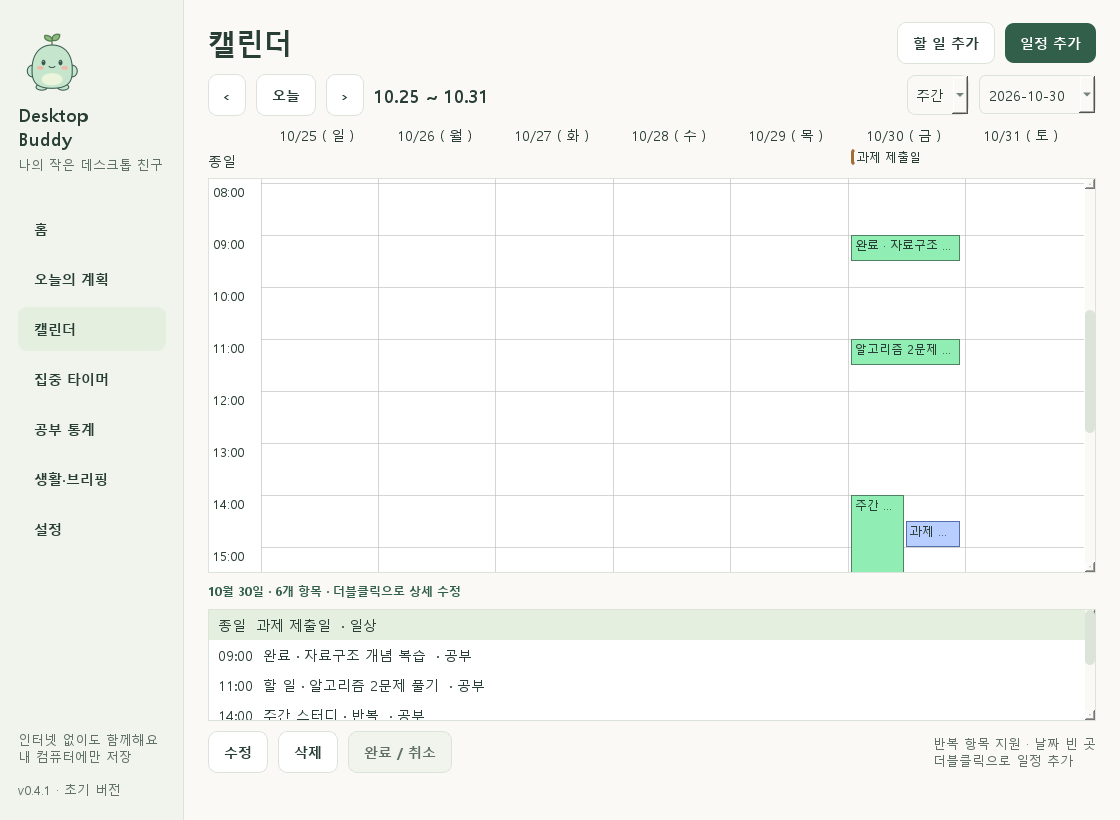
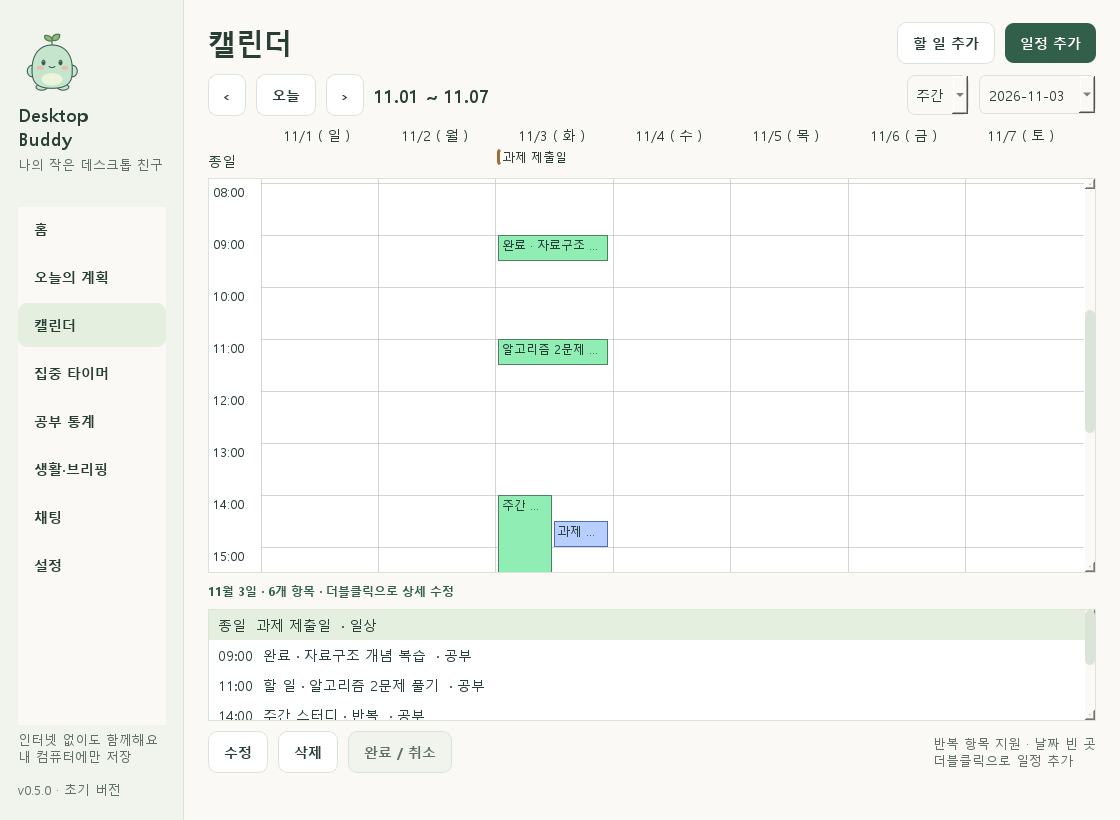
docs: document phase 5A usage and verified 0.5.0 checkpoint

diff --git a/docs/TEST_REPORT.md b/docs/TEST_REPORT.md
@@ -1,68 +1,45 @@
-# PHASE 0·1·2·3·4 검증 기록 — 0.4.1
+# PHASE 0~4·5A 검증 기록 — 0.5.0
 
-검증일: 2026-10-30, 한국 시간. Windows 11 build 26200, Python 3.12.14, PySide6 6.12.0, python-dateutil 2.9.0.post0, tzdata 2026.5, pytest 9.2.0, ruff 0.17.3, PyInstaller 6.22.3.
+검증일: 2026-11-03, 한국 시간. Windows 11 build 26200, Python 3.12.14, PySide6 6.12.0, pytest 9.2.0, ruff 0.17.3, PyInstaller 6.22.3.
 
-## 0.4.1 감사
+## 자동 회귀
 
-신규 오류 재현/보호 검사 10개를 추가했습니다. 기존 138개는 통과했지만 추가 검사에서 오류 6건을 재현해 수정했습니다. [감사 보고서](AUDIT_REPORT_0.4.1.md)에 사례·실제 프로세스 강제 종료 복구·실제 입력 승인 시간 초과와 수동 한계를 기록했습니다.
+**215개 통과**: 기존 148개 + 채팅/저장 회귀 63개 + 채팅 Qt UI 4개. 새 임시 DB와 Qt offscreen 플랫폼으로 실행했습니다. 실제 사용자 DB는 사용하지 않았습니다. `ruff check --no-cache .`, `ruff format --check --no-cache .` 통과.
 
-## 실행한 자동 회귀
+- 기존 설정·저장·계획/반복/알림·캐릭터·집중/통계·생활/브리핑·프로세스 종료 검사를 유지했습니다. 0.4.1의 기존 오류 6건은 [감사 보고서](AUDIT_REPORT_0.4.1.md)에 있습니다.
+- 한국어 24개 명령 형태와 모호한/잘못된 날짜·시각·범위·일괄 명령 16개를 검사했습니다. 모호한 문장을 실제 변경으로 연결하지 않습니다.
+- 할 일/일정 선택·동명 대상·추가/취소·완료/취소·날짜 이동·삭제·반복 범위·자정 일정·명시적 마감 보존.
+- 확인 중복 1회 처리, 변경/삭제된 대상·만료·새 명령/대화/보관 변경으로 오래된 카드 거부.
+- 진행 타이머 보호와 시작/일시정지/재개/확인 후 중지, 실제 공부 합계와 기존 캐릭터/타이머 UI 동기화.
+- 명령 처리 정보 저장 실패·성공 대화 저장 실패·지연 FK로 실제 commit 실패를 각각 주입했습니다. 계획·타이머 DB·런타임·세션/구간 ID·성공 대화·신호 모두 롤백했습니다.
+- 기존 실행 중 타이머의 일시정지/중지/초기화 실패 뒤 원상 복구, 같은 카드 재시도와 구간 시간 중복 적립 방지.
+- 중첩 실패를 내부에서 잡아도 부분 커밋 금지, 바깥 커밋 뒤 신호 발행.
+- 50개씩 대화 조회·재생성 서비스에서 기록 조회와 카드 복원 금지·보관 off·재활성화 시 소급 저장 없음·대화 삭제와 계획 분리.
+- 키 형태 canary를 DB에 쓰기 전에 거부, HTML/SQL 문자열을 일반 제목으로 보관하고 실행하지 않음. 네트워크 연결 진입점을 실패하게 한 상태에서도 로컬 명령 동작.
+- 스키마 1/2/3/4 이전과 backup DB 원래 버전·데이터 보존 검사. 새 스키마는 5입니다.
 
-**148개 통과.** 전용 임시 경로와 Qt offscreen 플랫폼을 사용했습니다. 실제 사용자 DB는 사용하지 않았습니다. `ruff check --no-cache .`와 `ruff format --check --no-cache .`도 통과했습니다.
+키 형태 탐지는 모든 비밀 문자열을 찾는 보장이 아닙니다. 가짜 시계·주입 오류·전원 이벤트 검사는 실제 OS 시계나 전원 상태를 변경하지 않습니다.
 
-- 기존 설정/DB 손상/상위 스키마 보호, 입력·좌표·에셋·프로세스 종료, 할 일/캘린더/분류/반복/알림 회귀 전체 유지.
-- 스키마 1 및 2에서 3으로 이전, 원본 backup API 백업과 기존 할 일·설정 유지, DDL 오류 롤백.
-- 가짜 monotonic/UTC 시계로 일시정지 제외, 중지한 집중 보존, 휴식 제외, 1회 완료/중복 방지, 기본 수동 다음 단계와 자동 사이클·긴 휴식·건너뛰기.
-- 5초 체크포인트, 정상 종료의 마지막 진행, 강제 종료를 가정한 체크포인트 복구, 미완료 일시정지 복원과 미적립 공백, 손상 체크포인트의 고아 세션 중단.
-- 절전 길이의 공백, 벽시계 앞/뒤 변경, 저장 실패 시 일시정지와 재시도, Windows 전원 이벤트 핸들러의 수동 재개 원칙.
-- 자정 날짜 분리, DST 23시간 하루 배분, 일시정지 구간 분리, 분류/할 일 삭제 뒤 기록 스냅샷 보존.
-- 종료 기록 분류 변경·삭제와 CASCADE 구간/누적 갱신, 진행 중 기록 삭제 금지, 100개를 넘는 완료 세션의 정확한 평균.
-- UI에서 집중 시작·일시정지·재개·완료와 기록 삭제, 7/30일·8주·6개월 데이터/0일 포함 합계 일치.
-- 작은 타이머 표시 모드·펫 숨김·입력 통과 플래그, 집중 중 알림 억제 선택과 완료 알림의 수동 중지/조용한 시간 준수, 모루 반응 뒤 focus/break 복귀와 움직임 줄이기.
+## Windows Qt 자체 실행
 
-수면 표시를 글꼴 없이 선으로 그리도록 다듬은 뒤 에셋/생활 UI 검사 16개도 다시 통과했습니다.
+`tools/native_smoke.py`를 `QT_QPA_PLATFORM=windows`로 실행했습니다. 전용 `.qa/native-smoke-phase5a/<UUID>` DB를 사용하고 `.qa/native-smoke-phase5a.json`에 결과를 저장했습니다.
 
-가짜 시계/전원 이벤트 테스트는 실제 OS 시계 변경이나 컴퓨터 절전을 수행하지 않습니다. Qt offscreen은 실제 OS 입력·합성·트레이·토스트 확인을 뜻하지 않습니다.
+- 기존 펫 최초 표시·트레이 Qt 표시 상태·관리창 닫기·크기/숨김 복원·계획 입력/완료·월/주/일·집중/통계·브리핑·집중 크기 복원 확인.
+- 채팅 입력/보내기 버튼으로 미리보기 전 비저장, 확인 후 실제 할 일 저장, 채팅의 타이머 시작/일시정지/재개 확인.
+- 진행 중 전체 종료 후 paused 체크포인트, 설정 보존, 실행 잠금 해제, 집중/생활/브리핑/알림 타이머 정지 확인.
 
-## PHASE 4 추가 자동 검사
+Qt API로 앱을 조작한 검사입니다. 실제 OS 마우스/키보드·트레이·알림 클릭을 대신하지 않습니다.
 
-- 기존 스키마 3의 집중 기록/제목을 보존하고 4로 이전, 이전 전 backup DB의 원래 버전 확인.
-- 첫 사용자/짧거나 중지한 기록/기록 off 예외, 완료 15분 기준·2일 걱정/3일 시무룩함·기준 변경·유효 완료/전체 기록 삭제 후 재계산.
-- 주말 제외·자연 자정·겹친 휴식 기간 중복 제외·휴식 삭제·모든 요일 휴식 설정, 날짜 범위 역전 거부.
-- 수면·집중 상태 우선순위, 직접 클릭이 완료 반응보다 우선하고 반응 뒤 집중/공백 상태 복귀.
-- monotonic 대비 시계 앞/뒤 불연속과 재실행 역행·미래 유효 기록 감지, 날짜 확인 후 해제. 실제 OS 시계는 바꾸지 않음.
-- 자동 안부의 횟수 제한과 재실행 처리 이력, 집중/수면/수동 방해 금지·필수 타이머 예외·명시적 클릭 반응.
-- Windows 상태 2/3/4 및 오류를 주입한 감지 테스트. 실제 게임·발표·브라우저 전체 화면은 아직 수동 확인 대상.
-- 새로운 미기록 집중의 임시 체크포인트 복구/종료 정리와 통계 제외, 진행 중 기록 설정 보존.
-- 브리핑 실제 DB의 날짜·남은 할 일·다가오는 일정·마감·공부 분류·이전 미완료, 예약 전 대기·집중 중 연기·시작 날짜 만료·당일 1회/재시작/과거 날짜 비누적·직접 보기 처리.
-- 새 페이지의 설정 저장·휴식 추가/삭제·날짜 확인, 작은 캐릭터/타이머만/숨김·직접 찾기·수동 숨김 보존, 브리핑 카드의 계획 이동과 집중 시작 시 자동 카드 닫기.
+## 앱 위젯 렌더링
 
-## Windows 네이티브 Qt 자체 검증
+`tools/render_preview.py`의 전용 `.qa/preview-data-phase5a/<UUID>` DB로 화면을 만들었습니다. 홈/계획/캘린더/집중/통계/생활/설정과 채팅 밝은/어두운 화면을 확인했습니다. 720×560에서 메뉴가 스크롤되고, 확인 내용·입력·버튼이 보입니다. 대화는 KST로 표시하며 HTML을 해석하지 않습니다. 실제 사용자 데이터나 다른 앱을 캡처하지 않았습니다.
 
-`tools/native_smoke.py`를 Qt `windows` 플랫폼에서 실행했습니다. 매번 `.qa/native-smoke-phase4/<고유 ID>`의 별도 DB를 만들고 `.qa/native-smoke-phase4.json`에 결과를 남깁니다.
+## EXE 빌드
 
-- 처음 펫만 표시, 트레이의 Qt 표시 상태 true, 관리창 닫기 후 펫 유지.
-- 크기 즉시 적용, 펫 숨김/복구와 애니메이션 중단/재개.
-- 계획 입력 추가·체크 완료, 월간 렌더와 주간 7일/일간 1일 전환.
-- 집중 페이지 버튼으로 시작·일시정지·재개·중지, focus 기본 상태와 작은 타이머의 Qt 표시, 통계 기록 표시.
-- 생활 페이지 표시, 수동 브리핑 카드 열기/계획 이동, 집중 중 128px와 저장된 208px 분리 및 중지 시 208px 복원.
-- 집중 중 전체 종료 후 미완료 체크포인트가 paused로 저장됨, 집중/생활/브리핑/알림 QTimer 정지, 설정 보존과 실행 잠금 해제.
+PyInstaller 0.5.0 one-folder 빌드를 완료했습니다. 버전 리소스·기본 모루 64 PNG·아이콘·Qt Windows 플러그인·tzdata Asia/Seoul을 포함하며 `assets/characters` 사용자 원본, DB·로그·QA·키 파일은 제외했습니다.
 
-이는 Qt API로 앱을 조작한 자체 검사입니다. 실제 마우스와 OS 트레이/알림 클릭을 대신하지 않습니다.
+EXE의 실제 실행은 이번에도 미검증입니다. 이전 Windows 앱 제어 정책 거부를 우회하지 않았으며 깨끗한 PC에서의 확인은 별도입니다. 검증된 실행 경로는 `run_windows.bat`의 Python/PySide6 소스 실행입니다.
 
-## 앱 화면 시각 확인
+## 수동 확인 대기
 
-`tools/render_preview.py`가 별도 `.qa/preview-data-phase3/<고유 ID>`에서 QA 자료를 만들고 앱 위젯만 렌더링합니다. 한글·밝은/어두운 화면, 홈/계획/월·주·일 캘린더/설정, 큰 타이머와 비활성 버튼, 타이머 설정, 통계 막대/비교/공부 달력/기록 표·생활/휴식/수면/브리핑 설정과 실제 브리핑 카드를 확인했습니다. 실제 사용자 데이터와 다른 앱/바탕화면을 캡처하지 않았습니다.
-
-## 초기 EXE 빌드
-
-0.4.1 PyInstaller one-folder 빌드와 포함 파일 확인을 수행했습니다. 기본 모루 PNG 64개·아이콘·Qt Windows 플러그인·tzdata Asia/Seoul을 포함합니다. `assets/characters` 원본 자료·사용자 DB·로그·QA 자료는 번들에서 제외했습니다.
-
-이전 EXE 시작은 이 PC의 Windows 앱 제어 정책으로 거부되었습니다. 정책을 변경하거나 우회하지 않았습니다. 이번 EXE의 실제 실행·깨끗한 PC 검증은 수행하지 않았습니다. 확인된 실행 경로는 `run_windows.bat`의 Python/PySide6 소스 실행입니다.
-
-## 미검증 및 수동 확인
-
-실제 마우스/트레이, OS 완료 토스트, 실기기 절전·복귀, OS 시계 변경, 다중 모니터·DPI, Windows 10, 깨끗한 PC의 EXE, 장시간/대규모 자료 성능은 남았습니다. [MANUAL_TESTS.md](MANUAL_TESTS.md)에 항목을 유지했습니다. PHASE 5 이후와 제공 3종 캐릭터 선택/연결은 아직 구현하지 않았습니다.
-
-
-생활 기능의 기본값은 주말 제외·15분 완료·3일 공백·3일 안부 간격이며 수면/자동 브리핑/전체 화면 숨김은 off입니다. 시계 보호는 관찰 가능한 불연속에 한정되며 앱 미실행 중 전진과 정상 경과는 완전히 구분할 수 없습니다. Windows 감지는 공식 알림 적합성 상태를 사용하므로 모든 전체 화면 앱의 탐지를 뜻하지 않습니다.
+한글 IME/접근성·실제 키보드/마우스·트레이·OS 토스트·절전/복귀·시계 변경·여러 모니터/DPI·Windows 10·깨끗한 PC의 EXE·장시간/대규모 데이터 성능은 [체크리스트](MANUAL_TESTS.md)에 남았습니다. 캐릭터 3종 선택(5B)·선택형 AI(6)는 미구현이며 PHASE 5 전체 완료가 아닙니다.

diff --git a/README.md b/README.md
@@ -1,10 +1,10 @@
-# Desktop Buddy 0.4.1
+# Desktop Buddy 0.5.0
 
 소스 저장소: [ksmin4347/Chiikawa_buddy](https://github.com/ksmin4347/Chiikawa_buddy)
 
-작은 캐릭터와 하루 계획을 함께 관리하는 한국어 Windows 데스크톱 앱입니다. **PHASE 0·1·2·3·4**를 구현했습니다. 인터넷·회원가입·API 키 없이 캐릭터, 할 일, 캘린더, 집중 타이머와 공부 통계를 사용할 수 있습니다.
+작은 캐릭터와 하루 계획을 함께 관리하는 한국어 Windows 데스크톱 앱입니다. **PHASE 0~4와 PHASE 5A 오프라인 명령 채팅**을 구현했습니다. 인터넷·회원가입·API 키 없이 캐릭터, 할 일, 캘린더, 집중 타이머와 공부 통계를 사용할 수 있습니다.
 
-기본 캐릭터 모루는 직접 그린 오리지널 마스코트입니다. 먼작귀 공식 이미지는 포함하지 않습니다. 채팅과 제공 캐릭터 선택은 아직 구현하지 않았습니다. 개발자가 제공할 치이카와·하치와레·우사기 자료는 [캐릭터 준비 폴더](assets/characters/README.md)에 넣습니다.
+기본 캐릭터 모루는 직접 그린 오리지널 마스코트입니다. 먼작귀 공식 이미지는 포함하지 않습니다. 채팅은 오프라인 명령 모드입니다. 제공 3종 캐릭터 선택과 AI 대화는 후속 단계입니다. 개발자가 제공할 치이카와·하치와레·우사기 자료는 [캐릭터 준비 폴더](assets/characters/README.md)에 넣습니다.
 
 ![생활·브리핑](docs/images/companion.png)
 
@@ -12,7 +12,7 @@
 
 ## 5·6단계 설계와 사진 준비
 
-[채팅·캐릭터·AI 설계서](docs/PHASE_5_6_DESIGN.md)와 [사진 넣는 방법](assets/characters/README.md)을 정리했습니다. 이는 후속 설계이며 현재 앱에 채팅·3종 선택·AI 연결을 추가한 것은 아닙니다. 사진은 개발자가 준비하고, 앱 사용자는 제공 목록에서 고르는 방식입니다.
+[채팅·캐릭터·AI 설계서](docs/PHASE_5_6_DESIGN.md)와 [사진 넣는 방법](assets/characters/README.md)을 정리했습니다. 0.5.0에는 5A 오프라인 채팅을 연결했습니다. 5B 3종 캐릭터 선택과 6단계 AI 연결은 설계 상태입니다. 사진은 개발자가 준비하고, 앱 사용자는 제공 목록에서 고르는 방식입니다.
 
 ## 실행
 
@@ -20,7 +20,7 @@
 
 처음 소스를 받았거나 0.1.0 개발 환경에서 업데이트했다면 Python 3.12 이상을 설치한 뒤 `setup_windows.bat` → `run_windows.bat` 순서로 실행합니다. 준비에는 인터넷이 필요하며, 앱 실행에는 인터넷이 필요하지 않습니다.
 
-`build_windows.bat`은 테스트 후 `dist\DesktopBuddy` 폴더를 만듭니다. Python 없는 PC용 one-folder EXE 후보이며 폴더 전체가 필요합니다. **이 PC에서 이전 EXE는 Windows 앱 제어 정책으로 차단되었습니다. 0.4.1도 빌드와 포함 파일을 확인했지만 EXE 실행·깨끗한 PC 검증은 완료하지 않았습니다.** 현재 확인된 실행 경로는 소스 실행입니다.
+`build_windows.bat`은 테스트 후 `dist\DesktopBuddy` 폴더를 만듭니다. Python 없는 PC용 one-folder EXE 후보이며 폴더 전체가 필요합니다. **이 PC에서 이전 EXE는 Windows 앱 제어 정책으로 차단되었습니다. 0.5.0도 빌드와 포함 파일을 확인했지만 EXE 실행·깨끗한 PC 검증은 완료하지 않았습니다.** 현재 확인된 실행 경로는 소스 실행입니다.
 
 ## 지금 사용할 수 있는 기능
 
@@ -37,6 +37,7 @@
 | 공부 통계 | 일/주/월/누적, 7·30일/8주/6개월 그래프, 분류·할 일별 비교, 공부 달력, 기록 분류 수정·삭제 |
 | 작은 타이머 | 항상/집중 중/마우스 올림/숨김, 캐릭터 이동 연동, 마우스 입력 통과 |
 | 생활·브리핑 | 공부 공백 표정·휴식일/기간, 수면, 집중 중 표시, 선택형 자동 숨김, 하루 브리핑 |
+| 채팅 | 한국어 지원 명령, 일정·공부 조회, 타이머 제어, 변경 확인, 대화 보관·삭제 |
 | 설정 | 이름·크기·속도·정지 이미지·말풍선·항상 위·시작 표시·테마·주 시작 요일 |
 
 날짜가 지난 미완료 항목은 자동 완료되거나 사라지지 않습니다. '이전 미완료'에서 확인하고 수정 창의 예정 날짜를 바꿀 수 있습니다. 반복 항목의 수정·삭제 범위는 원래 발생 날짜를 기준으로 합니다. 개별로 옮긴 날짜도 원래 항목과 연결됩니다.
@@ -80,11 +81,19 @@
 
 ![오늘 브리핑 카드](docs/images/briefing.png)
 
+## 오프라인 채팅 — 0.5.0
+
+관리창 왼쪽 **채팅**을 엽니다. `오늘 할 일 보여줘`, `오늘 얼마나 공부했어?`, `25분 집중 시작`을 입력하거나 예시를 고를 수 있습니다. `할 일 추가: 자료구조 복습`은 내용을 먼저 보여주며 **확인하고 적용**을 눌러야 저장합니다. 모호한 대상·반복 범위는 선택하고, 변경된 대상·5분 지난 카드·같은 요청의 중복 확인은 실행하지 않습니다.
+
+대화 보관은 기본 켜짐입니다. 끄면 새 메시지는 실행 중 메모리에만 남으며, 이전 대화는 별도로 삭제할 수 있습니다. 대화 삭제는 계획·공부 기록에 영향을 주지 않습니다. 키 형태 본문은 저장 전에 거부합니다. 자유로운 AI 대화·임의 프로그램 실행은 지원하지 않습니다. [전체 지원 예시와 제한](docs/CHAT_GUIDE.md)을 확인하세요.
+
+![오프라인 채팅과 저장 전 확인](docs/images/chat.png)
+
 ## 데이터 안전성
 
-기본 저장 위치는 `%LOCALAPPDATA%\DesktopBuddy\`입니다. `buddy.db`에 설정·위치·계획·일정·반복 예외·알림 처리 이력·집중 세션·실제 집중 구간·휴식 기간·안내 처리 이력을 저장합니다. 설치 폴더를 교체해도 유지됩니다. 오류 로그는 `logs\app.log`에 크기를 제한해 보관합니다.
+기본 저장 위치는 `%LOCALAPPDATA%\DesktopBuddy\`입니다. `buddy.db`에 설정·위치·계획·일정·반복 예외·알림 처리 이력·집중 세션·실제 집중 구간·휴식 기간·안내 처리 이력·선택형 대화 기록·본문 없는 명령 처리 식별 정보을 저장합니다. 설치 폴더를 교체해도 유지됩니다. 오류 로그는 `logs\app.log`에 크기를 제한해 보관합니다.
 
-0.1.0~0.3.0 DB를 처음 열 때 **원본 백업을 만든 뒤 스키마 4로 이전**합니다. 실패 시 트랜잭션을 되돌리고 원본 DB를 초기화하지 않습니다. 백업은 같은 폴더의 `buddy.<시각>.backup.db`입니다. 이전 버전 프로그램은 새 스키마 DB를 열지 못하므로, 복구가 필요하면 원본·백업을 보관한 채 문의해 주세요. 백업/복원 UI는 후속 단계입니다.
+0.1.0~0.4.1 DB를 처음 열 때 **원본 백업을 만든 뒤 스키마 5로 이전**합니다. 실패 시 트랜잭션을 되돌리고 원본 DB를 초기화하지 않습니다. 백업은 같은 폴더의 `buddy.<시각>.backup.db`입니다. 이전 버전 프로그램은 새 스키마 DB를 열지 못하므로, 복구가 필요하면 원본·백업을 보관한 채 문의해 주세요. 백업/복원 UI는 후속 단계입니다.
 
 ## 0.4.1 재점검
 
@@ -100,7 +109,7 @@
 .\.venv\Scripts\python.exe tools\native_smoke.py
 ```
 
-자동 테스트 **148개 통과**, 코드 품질 검사 통과. Windows Qt 자체 검증으로 계획/캘린더, 집중/통계와 생활 화면·브리핑 카드·집중 중 크기 복원·종료 정리를 확인했습니다. 실제 마우스·트레이·OS 토스트·실기기 절전·여러 모니터·전체 배율·Windows 10·EXE 실행 검증은 남아 있습니다.
+자동 테스트 **215개 통과**, 코드 품질 검사 통과. Windows Qt 자체 검증으로 계획/캘린더, 집중/통계와 생활 화면·브리핑 카드·집중 중 크기 복원·종료 정리를 확인했습니다. 실제 마우스·트레이·OS 토스트·실기기 절전·여러 모니터·전체 배율·Windows 10·EXE 실행 검증은 남아 있습니다.
 
 기존 테스트 임시 폴더의 권한 문제가 있다면 새 경로로 검증할 수 있습니다.
 
@@ -115,4 +124,4 @@ $buddyTestPath = Join-Path $env:TEMP ('desktop-buddy-tests-' + [guid]::NewGuid()
 
 [실행·사용 안내](docs/WINDOWS_GUIDE.md) · [검증 기록](docs/TEST_REPORT.md) · [수동 확인](docs/MANUAL_TESTS.md) · [구조](ARCHITECTURE.md) · [요구사항](REQUIREMENTS.md) · [로드맵](ROADMAP.md) · [변경 기록](CHANGELOG.md) · [원본 명세](docs/MASTER_SPEC.md)
 
-다음은 PHASE 5(오프라인 명령·채팅·제공 캐릭터 선택·사용성)이며 별도 요청 후 진행합니다.
+다음은 PHASE 5B 제공 캐릭터 팩 준비·선택입니다. 실제 사진이 준비된 뒤 후속 요청으로 진행합니다. PHASE 6 AI 연결은 아직 시작하지 않았습니다.

diff --git a/docs/CHAT_GUIDE.md b/docs/CHAT_GUIDE.md
@@ -1,0 +1,55 @@
+# 오프라인 채팅 사용법 — 0.5.0 / PHASE 5A
+
+`run_windows.bat` 실행 → 캐릭터 더블클릭 → 왼쪽 **채팅**을 엽니다. 인터넷·API 키·로그인 없이 동작합니다. 기본 모드는 지원 명령을 처리하며 자유로운 AI 대화는 후속 단계입니다.
+
+## 지원 예시
+
+| 입력 | 동작 |
+|---|---|
+| 도움말 / 안녕 | 실제 지원 예시 표시 |
+| 오늘 할 일 보여줘 | 오늘 서울 날짜의 할 일과 완료 상태 |
+| 내일 일정 보여줘 / 2026-11-10 일정 보여줘 | 해당 날짜와 겹치는 일정 조회 |
+| 오늘 얼마나 공부했어? | 최근 체크포인트까지 실제 집중 시간 |
+| 이번 주 공부 시간 / 이번 달 공부 시간 / 전체 공부 시간 | 설정의 주 시작 요일을 따르는 주간·월간·전체 합계 |
+| 25분 집중 시작 / 1시간 30분 집중 시작 | 1~1,440분 검증 후 시작 |
+| 5분 짧은 휴식 시작 / 15분 긴 휴식 시작 | 휴식 타이머 시작. 공부 시간에 포함하지 않음 |
+| 타이머 일시정지 / 타이머 재개 | 현재 상태가 맞을 때 즉시 처리 |
+| 타이머 중지 / 타이머 초기화 | 내용을 확인한 뒤 적용. 과거 공부 기록 보존 |
+| 할 일 추가: 자료구조 복습 | 오늘 시간 없는 할 일의 미리보기 |
+| 내일 할 일 추가: 자료구조 복습 | 내일 시간 없는 할 일의 미리보기 |
+| 내일 오후 3시에 알고리즘 공부 추가해줘 | 할 일/일정 선택 후 절대 날짜·시간 확인 |
+| 내일 15:00~16:30 회의 일정 추가해줘 | 시간 범위가 지정된 일정 미리보기 |
+| 내일 15:00 회의 일정 추가해줘 | 종료를 시작 1시간 후로 미리보기에서 안내 |
+| 내일 종일 휴가 일정 추가해줘 | 하루 종일 일정. 끝은 다음 날 00:00 |
+| 오늘 자료구조 복습 완료해줘 | 정확한 제목의 할 일을 확인한 뒤 완료 |
+| 오늘 자료구조 복습 완료 취소해줘 | 해당 발생 날짜의 완료 취소 |
+| 오늘 자료구조 복습 내일로 옮겨줘 | 예정 날짜 이동. 명시적인 기존 마감 시각은 유지 |
+| 오늘 자료구조 복습 삭제해줘 | 대상을 확인한 뒤 삭제 |
+| 캘린더 열어줘 / 설정 열어줘 | 기존 관리창의 해당 페이지로 이동 |
+| 내 상태 알려줘 | 실제 타이머 상태와 생활 상태 설명 |
+
+날짜는 오늘/내일/모레/`YYYY-MM-DD`, 시각은 `15:00` 또는 `오후 3시` 형식입니다. 제목 변경·메모·분류·알림·새 반복 규칙은 기존 계획/캘린더 편집 화면을 사용합니다. 한 번에 여러 명령, 요일만 지정, 대명사 '이 할 일', 오전/오후 없는 '5시', '정지'처럼 의미가 모호한 명령은 실행하지 않습니다. 날짜를 생략한 완료/삭제/이동의 조회 대상은 오늘이며 다른 날짜를 임의로 뒤지지 않습니다.
+
+## 변경 확인
+
+1. **예시 넣기**는 입력만 채웁니다. **보내기** 또는 Enter로 명령을 처리합니다.
+2. 같은 제목이 여러 개면 날짜·시각·종류·분류·번호로 대상을 고릅니다.
+3. 반복 이동/삭제는 이번만·이번부터 이후·전체를 고릅니다. 완료/취소는 해당 발생 날짜만 바꿉니다.
+4. 대화 아래의 변경 전/후·날짜·반복 범위를 읽고 **확인하고 적용**을 누릅니다. **취소**는 변경하지 않습니다.
+5. 카드는 5분 후 만료합니다. 새 명령·새 대화·대화 선택·보관 변경·재시작으로 이전 카드가 무효화됩니다. 다른 화면에서 대상이나 타이머 상태가 달라지면 명령을 다시 입력합니다.
+
+확인 버튼을 반복해서 눌러도 같은 실행 식별 정보로 한 번만 처리합니다. 진행 중 타이머를 새 시작 명령이 덮어쓰지 않습니다. 저장 실패 시 성공으로 표시하지 않으며, 확인 카드 저장 실패는 같은 카드로 다시 시도할 수 있습니다. 일반 입력 오류·실패에는 입력을 유지합니다. 키로 보이는 입력은 저장 전 거부하고 입력란을 비웁니다. 탐지 규칙이 모든 비밀 값을 완벽히 찾는다는 뜻은 아닙니다.
+
+## 대화 보관과 삭제
+
+- **대화 보관** 기본 켜짐: `%LOCALAPPDATA%/DesktopBuddy/buddy.db`에 로컬로 저장합니다.
+- 끄면 이후 메시지는 메모리 최대 200개에만 남고 종료 시 사라집니다. 기존 대화는 보존합니다.
+- 다시 켜면 새 대화에 지금부터 저장합니다. 메모리 대화를 소급 저장하지 않습니다.
+- 대화 선택은 최근 생성한 50개 세션, 메시지는 최근 50개부터 시작합니다. **이전 50개**로 더 읽습니다.
+- **대화 삭제**에서 이 대화/모든 대화를 고르고 확인합니다. 일정·할 일·공부 기록은 유지합니다.
+- 중복 실행 방지용 UUID·명령 종류·처리 시각은 대화 삭제·보관 끄기와 별도로 보존합니다. 이 정보에는 명령 본문·항목 제목을 넣지 않습니다.
+- 대화는 일반 텍스트입니다. HTML·스크립트·임의 파일/셸/프로그램 명령을 실행하지 않습니다.
+
+## 검증과 남은 작업
+
+자동 테스트와 Windows Qt API를 통한 자체 조작, 밝은/어두운 화면과 최소 창 크기를 확인했습니다. 실제 한글 IME·키보드/마우스·DPI·스크린리더·EXE 실행은 [수동 검사](MANUAL_TESTS.md)에 남아 있습니다. 캐릭터 3종 선택과 AI 연결은 아직 구현하지 않았습니다. 사진 준비 방법은 [캐릭터 안내](../assets/characters/README.md)를 따릅니다.

diff --git a/ROADMAP.md b/ROADMAP.md
@@ -1,6 +1,6 @@
 # 단계별 개발 계획
 
-현재 구현 승인 범위는 PHASE 0·1·2·3·4입니다. PHASE 5·6 설계와 캐릭터 자료 안내는 2026-11-03 요청으로 정리했으며, 해당 단계의 기능 구현은 별도 요청 후 진행합니다. 아래 예상 크기는 작업 순서와 상대적인 난이도이며 날짜나 납기 약속이 아닙니다.
+현재 구현 승인 범위는 PHASE 0~4와 PHASE 5A입니다. PHASE 5·6 설계와 캐릭터 자료 안내는 2026-11-03 요청으로 정리했으며, 후속 요청으로 5A를 구현했습니다. 5B와 6단계 기능은 별도 요청 후 진행합니다. 아래 예상 크기는 작업 순서와 상대적인 난이도이며 날짜나 납기 약속이 아닙니다.
 
 | 단계 | 우선순위·예상 크기 | 구현 범위 | 완료 조건 | 상태 |
 |---|---|---|---|---|
@@ -9,7 +9,7 @@
 | 2 | 핵심·큼 | 할 일·카테고리·월/주/일 캘린더·반복/예외·알림 | 반복 1회 수정, 자정 일정, 저장·중복 알림 검증 | 구현·자동·네이티브 Qt 자체 검증 완료 / OS 입력·토스트 수동 확인 대기 |
 | 3 | 핵심·큼 | 집중/휴식·뽀모도로·복구·학습 기록·통계/그래프 | 일시정지/절전 제외, 자정 분리 집계, 중단과 완료 구분 | 구현·자동·Windows Qt 자체 검증 완료 / 실기기 절전·OS 표시 수동 확인 대기 |
 | 4 | 중요·중간 | 감정·수면·공부 공백·방해 금지·아침 브리핑 | 최초 사용자 예외, 휴식일 제외, 상태 충돌·중복 브리핑 방지 | 구현·자동·Windows Qt 자체 검증 / 실제 전체 화면·절전·장시간 확인 대기 |
-| 5 | 중요·큼 | 오프라인 명령·대화 기록·제공 캐릭터 선택·사용성 | 무키 명령, 해석 실패 안내, 3종 선택과 캐릭터 업데이트 대응 | 설계 문서 완료 / 구현 미착수 |
+| 5 | 중요·큼 | 오프라인 명령·대화 기록·제공 캐릭터 선택·사용성 | 무키 명령, 해석 실패 안내, 3종 선택과 캐릭터 업데이트 대응 | 5A 구현·자동/Qt 자체 검사 완료 / 5B 미착수·5C 추가 실사용 검사 대기 |
 | 6 | 선택·큼 | OpenAI BYOK·보안 저장·연결 테스트·안전한 명령 | 키 비노출, 확인 후 변경, API 실패 시 로컬 기능 유지 | 설계 문서 완료 / 구현 미착수 |
 | 7 | 선택·큼 | ICS 교환·중복/충돌·공식 연동 조사 | 파일 교환 검증, Planit 지원 근거와 한계 명시 | 미착수 |
 | 8 | 출시 필수·큼 | 전체 통합·성능·DPI·절전·최종 배포·설치 가이드 | Windows 수동 매트릭스와 EXE 회귀, 데이터 유지 | 미착수 |
@@ -45,7 +45,7 @@
 
 ## 다음 요청 시 시작점
 
-수동 확인 결과나 오류 제보를 먼저 반영합니다. 다음 구현은 별도 요청 후 PHASE 5의 오프라인 명령·대화 기록·개발자 제공 3종 캐릭터 선택/변경입니다. 사진 연결은 사용자가 자료를 준비한 뒤 진행하며 선택 UI는 아직 미구현입니다.
+수동 확인 결과나 오류 제보를 먼저 반영합니다. 5A 오프라인 명령·대화는 0.5.0에 구현했습니다. 다음은 후속 요청 후 PHASE 5B 개발자 제공 3종 캐릭터 팩·선택/변경입니다. 실제 사진 자료를 준비한 뒤 연결하며 5B와 6단계 AI는 아직 미구현입니다.
 
 ## PHASE 3 결과 — 0.3.0
 
@@ -68,3 +68,12 @@
 ## 캐릭터 제공 방식 확정
 
 개발자가 준비한 치이카와·하치와레·우사기 중 첫 실행에 선택하고, 설정에서 변경하며, 새 캐릭터는 앱 업데이트로 추가하는 방향입니다. 준비 위치는 `assets/characters/<캐릭터 ID>/idle/`이며 [에셋 안내](assets/characters/README.md)를 따릅니다. 폴더 준비는 완료했지만 선택 UI와 실제 3종 이미지는 아직 연결하지 않았습니다.
+
+## PHASE 5A 결과 — 0.5.0
+
+- 관리창의 오프라인 채팅·예시·도움말, 실제 계획/공부 조회와 타이머 제어.
+- 변경 확인, 동명 대상·반복 범위 선택, 카드 만료·상태 재검증과 중복 실행 방지.
+- 공통 중첩 트랜잭션, 커밋 뒤 신호, 실패 시 타이머 런타임/DB/성공 기록 복구.
+- 대화 보관·삭제·50개씩 조회와 키 형태 본문 거부. 스키마 5 백업 이전.
+- 전체 215개 회귀·품질·Windows Qt 자체 검사·밝은/어두운 화면 확인. 실제 OS 입력·IME/DPI·EXE 실행은 수동 대상.
+- PHASE 5 전체 완료 아님. 사진 원본은 변경·공개하지 않았고 3종 선택/AI 연결은 후속 범위.

diff --git a/docs/WINDOWS_GUIDE.md b/docs/WINDOWS_GUIDE.md
@@ -1,8 +1,8 @@
-# Windows에서 사용하기 — 0.4.1
+# Windows에서 사용하기 — 0.5.0
 
 ## 시작
 
-이 PC에서는 `run_windows.bat`을 더블클릭합니다. 화면 오른쪽 아래의 모루를 더블클릭하면 홈·오늘의 계획·캘린더·집중 타이머·공부 통계·생활·브리핑·설정 관리창이 열립니다.
+이 PC에서는 `run_windows.bat`을 더블클릭합니다. 화면 오른쪽 아래의 모루를 더블클릭하면 홈·오늘의 계획·캘린더·집중 타이머·공부 통계·생활·브리핑·채팅·설정 관리창이 열립니다.
 
 다른 PC에서 소스를 준비하거나 0.1.0 환경을 업데이트할 때에는 Python 3.12 이상 설치 후 `setup_windows.bat`을 한 번 실행합니다. 준비 과정만 인터넷이 필요합니다. 오류가 나면 실행 창이 유지됩니다.
 
@@ -75,6 +75,12 @@
 
 `%LOCALAPPDATA%\DesktopBuddy\buddy.db`에 저장합니다. 0.1.0~0.3.0 DB는 자동 백업 후 새 스키마로 이전하며 설정과 위치를 유지합니다. 이전 중 오류가 있어도 DB를 초기화하지 않습니다. 원본과 `buddy.<시각>.backup.db`를 보관하세요. 수동 백업·복원 버튼은 아직 없습니다.
 
-`dist\DesktopBuddy`는 초기 EXE 폴더입니다. 전체를 복사해야 하며 EXE만 옮기면 안 됩니다. 이 PC의 이전 EXE는 앱 제어 정책으로 차단되었고 0.4.1 EXE 실행 검증도 남아 있습니다. 지금은 확인된 `run_windows.bat` 소스 실행을 사용합니다.
+`dist\DesktopBuddy`는 초기 EXE 폴더입니다. 전체를 복사해야 하며 EXE만 옮기면 안 됩니다. 이 PC의 이전 EXE는 앱 제어 정책으로 차단되었고 0.5.0 EXE 실행 검증도 남아 있습니다. 지금은 확인된 `run_windows.bat` 소스 실행을 사용합니다.
 
 수동 확인 목록: [MANUAL_TESTS.md](MANUAL_TESTS.md). 다음 개발 단계는 별도 요청 후 오프라인 명령·채팅·제공 캐릭터 선택입니다.
+
+## 오프라인 채팅 — PHASE 5A
+
+관리창의 채팅에서 `오늘 할 일 보여줘`, `25분 집중 시작`, `할 일 추가: 자료구조 복습`을 입력합니다. 추가/수정/완료/삭제와 타이머 중지/초기화는 확인 후 적용합니다. 같은 제목과 반복 범위는 먼저 선택합니다. 5분 지난 카드나 다른 화면에서 바뀐 대상은 다시 입력합니다.
+
+대화 보관은 기본 켜짐이며 끄면 이후 메시지는 실행 중에만 유지합니다. 대화 삭제는 계획과 공부 기록을 삭제하지 않습니다. 자유 AI 대화·키 입력·캐릭터 3종 선택은 아직 지원하지 않습니다. 전체 예시는 [채팅 안내](CHAT_GUIDE.md)를 참고하세요. 0.4.1 이하 DB는 backup API로 백업한 뒤 스키마 5로 이전합니다.

diff --git a/AGENTS.md b/AGENTS.md
@@ -2,7 +2,7 @@
 
 - 목표: Windows 11 중심, Windows 10 호환을 고려한 한국어 로컬 데스크톱 펫과 생산성 비서.
 - Python 3.12+, PySide6, SQLite, pytest, PyInstaller를 사용한다. 브라우저·서버·API 키 없이 기본 기능이 동작해야 한다.
-- 현재 구현 승인 범위는 PHASE 0·1·2·3·4이다. PHASE 5·6 설계와 캐릭터 자료 안내는 승인되었으며 docs/PHASE_5_6_DESIGN.md를 따른다. PHASE 5 이후 기능 구현은 별도 사용자 요청 후 진행한다.
+- 현재 구현 승인 범위는 PHASE 0·1·2·3·4 및 PHASE 5A 오프라인 명령·대화이다. PHASE 5·6 설계는 docs/PHASE_5_6_DESIGN.md를 따른다. PHASE 5B 캐릭터 선택과 PHASE 6 AI 연결은 후속 사용자 요청 후 진행한다.
 - UI, 저장소, 서비스, 캐릭터 상태/프레임 처리를 분리한다. 미래 기능을 위한 빈 클래스나 가짜 버튼은 만들지 않는다.
 - 신규 기능은 REQUIREMENTS.md와 ROADMAP.md에서 범위를 확인한다. 완료 상태를 실제 구현·검증과 일치시킨다.
 - 사용자 데이터는 %LOCALAPPDATA%/DesktopBuddy에 둔다. 앱 이름 변경 시 데이터 폴더를 임의로 바꾸지 않는다.

diff --git a/CHANGELOG.md b/CHANGELOG.md
@@ -1,5 +1,15 @@
 # 변경 기록
 
+## 0.5.0 — 2026-11-03
+
+- PHASE 5A 오프라인 명령 채팅·한국어 예시/도움말, 실제 할 일·일정·공부 시간 조회와 타이머 제어.
+- 데이터 변경과 타이머 중지/초기화 확인, 동명 대상·반복 범위 선택, 5분 만료·상태 변경·중복 확인 거부.
+- Planning/Focus 공통 중첩 Unit of Work와 커밋 후 신호. 명령·성공 대화·중복 방지 정보·타이머 런타임의 실패 복구.
+- 대화 보관 on/off·세션별/전체 삭제·50개씩 조회, 키 형태 본문 저장 거부. 스키마 5 백업 이전.
+- 채팅 밝은/어두운 화면과 작은 창·스크롤 메뉴, 기존 148개에 67개 추가해 전체 215개 회귀.
+- 기본 모루 유지. 개발자 제공 3종 캐릭터 선택(5B)·온라인 AI(6)는 미구현. 원본 사진은 커밋/번들 제외.
+
+
 ## 0.4.1 — 2026-10-30
 
 - PHASE 0~4 감사: 기존 138개 통과 후 신규 재현 검사로 오류 6건 확인·수정.
